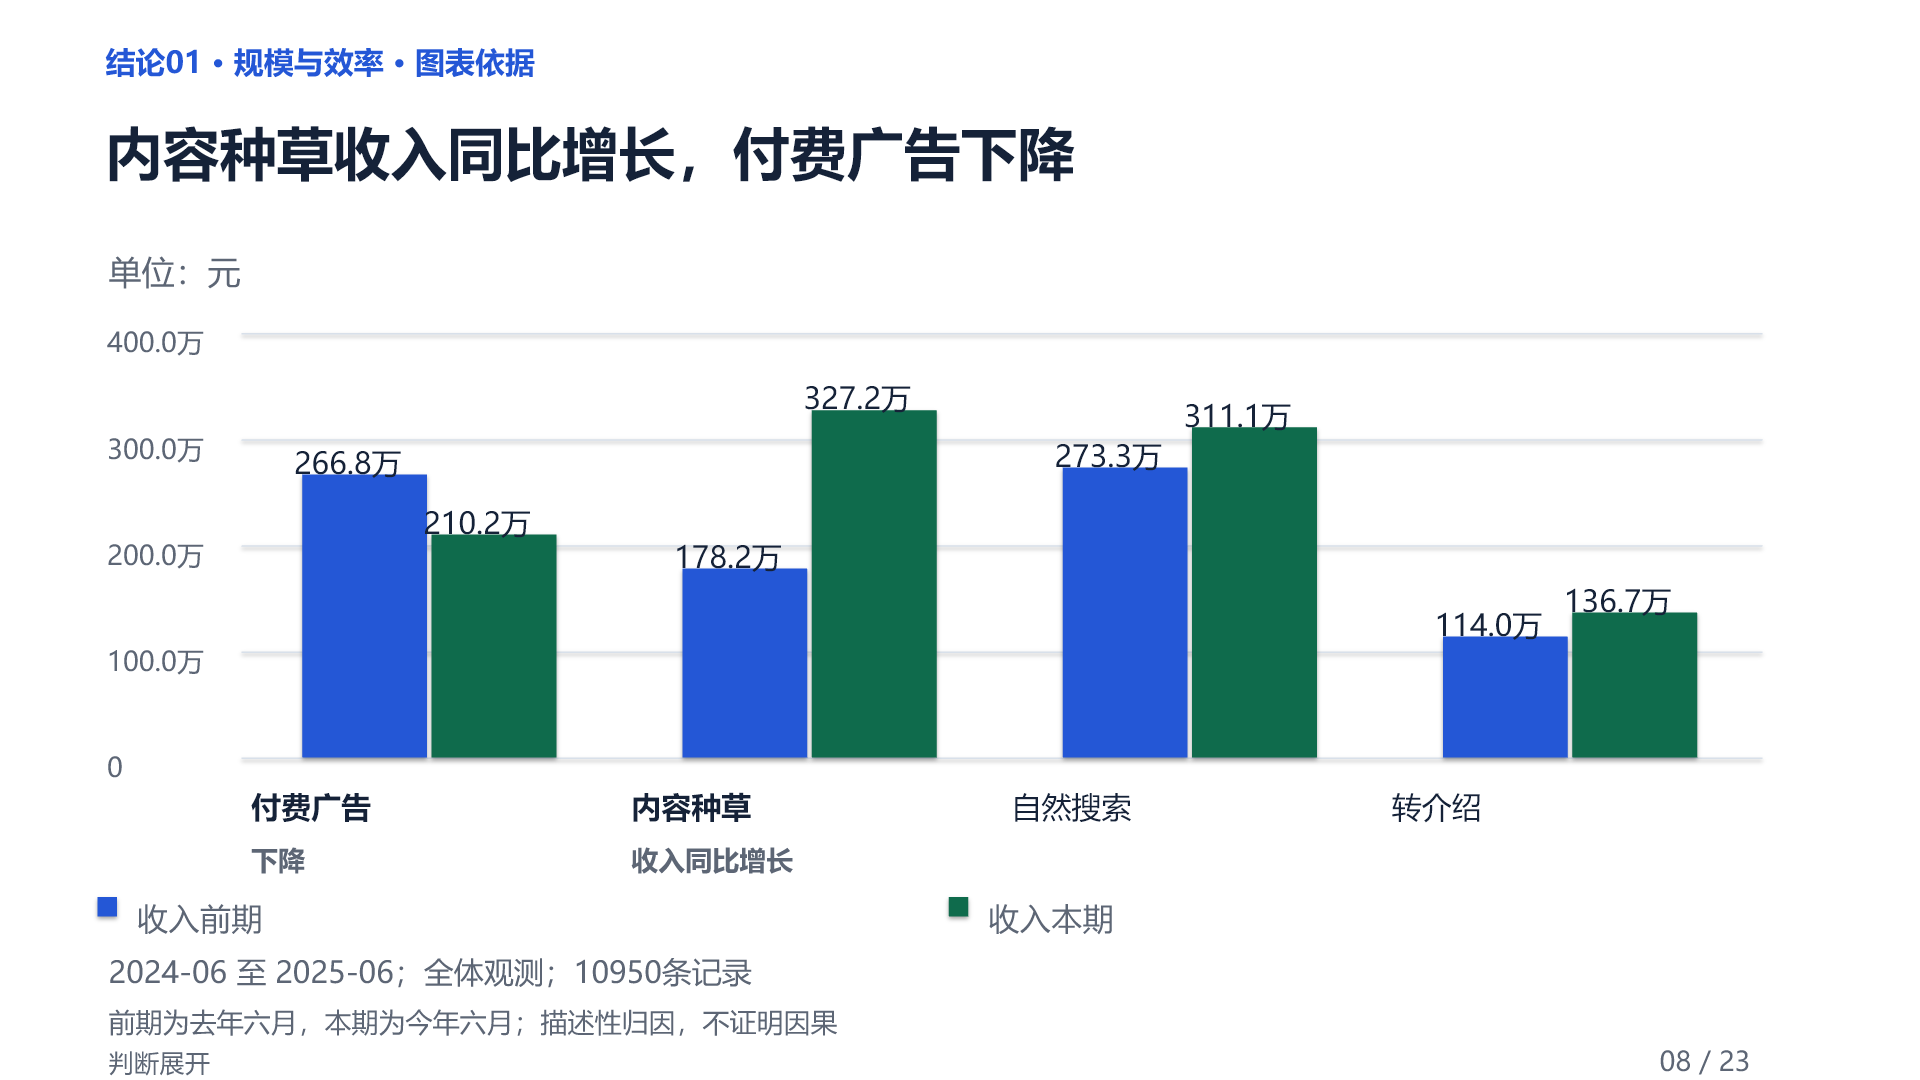
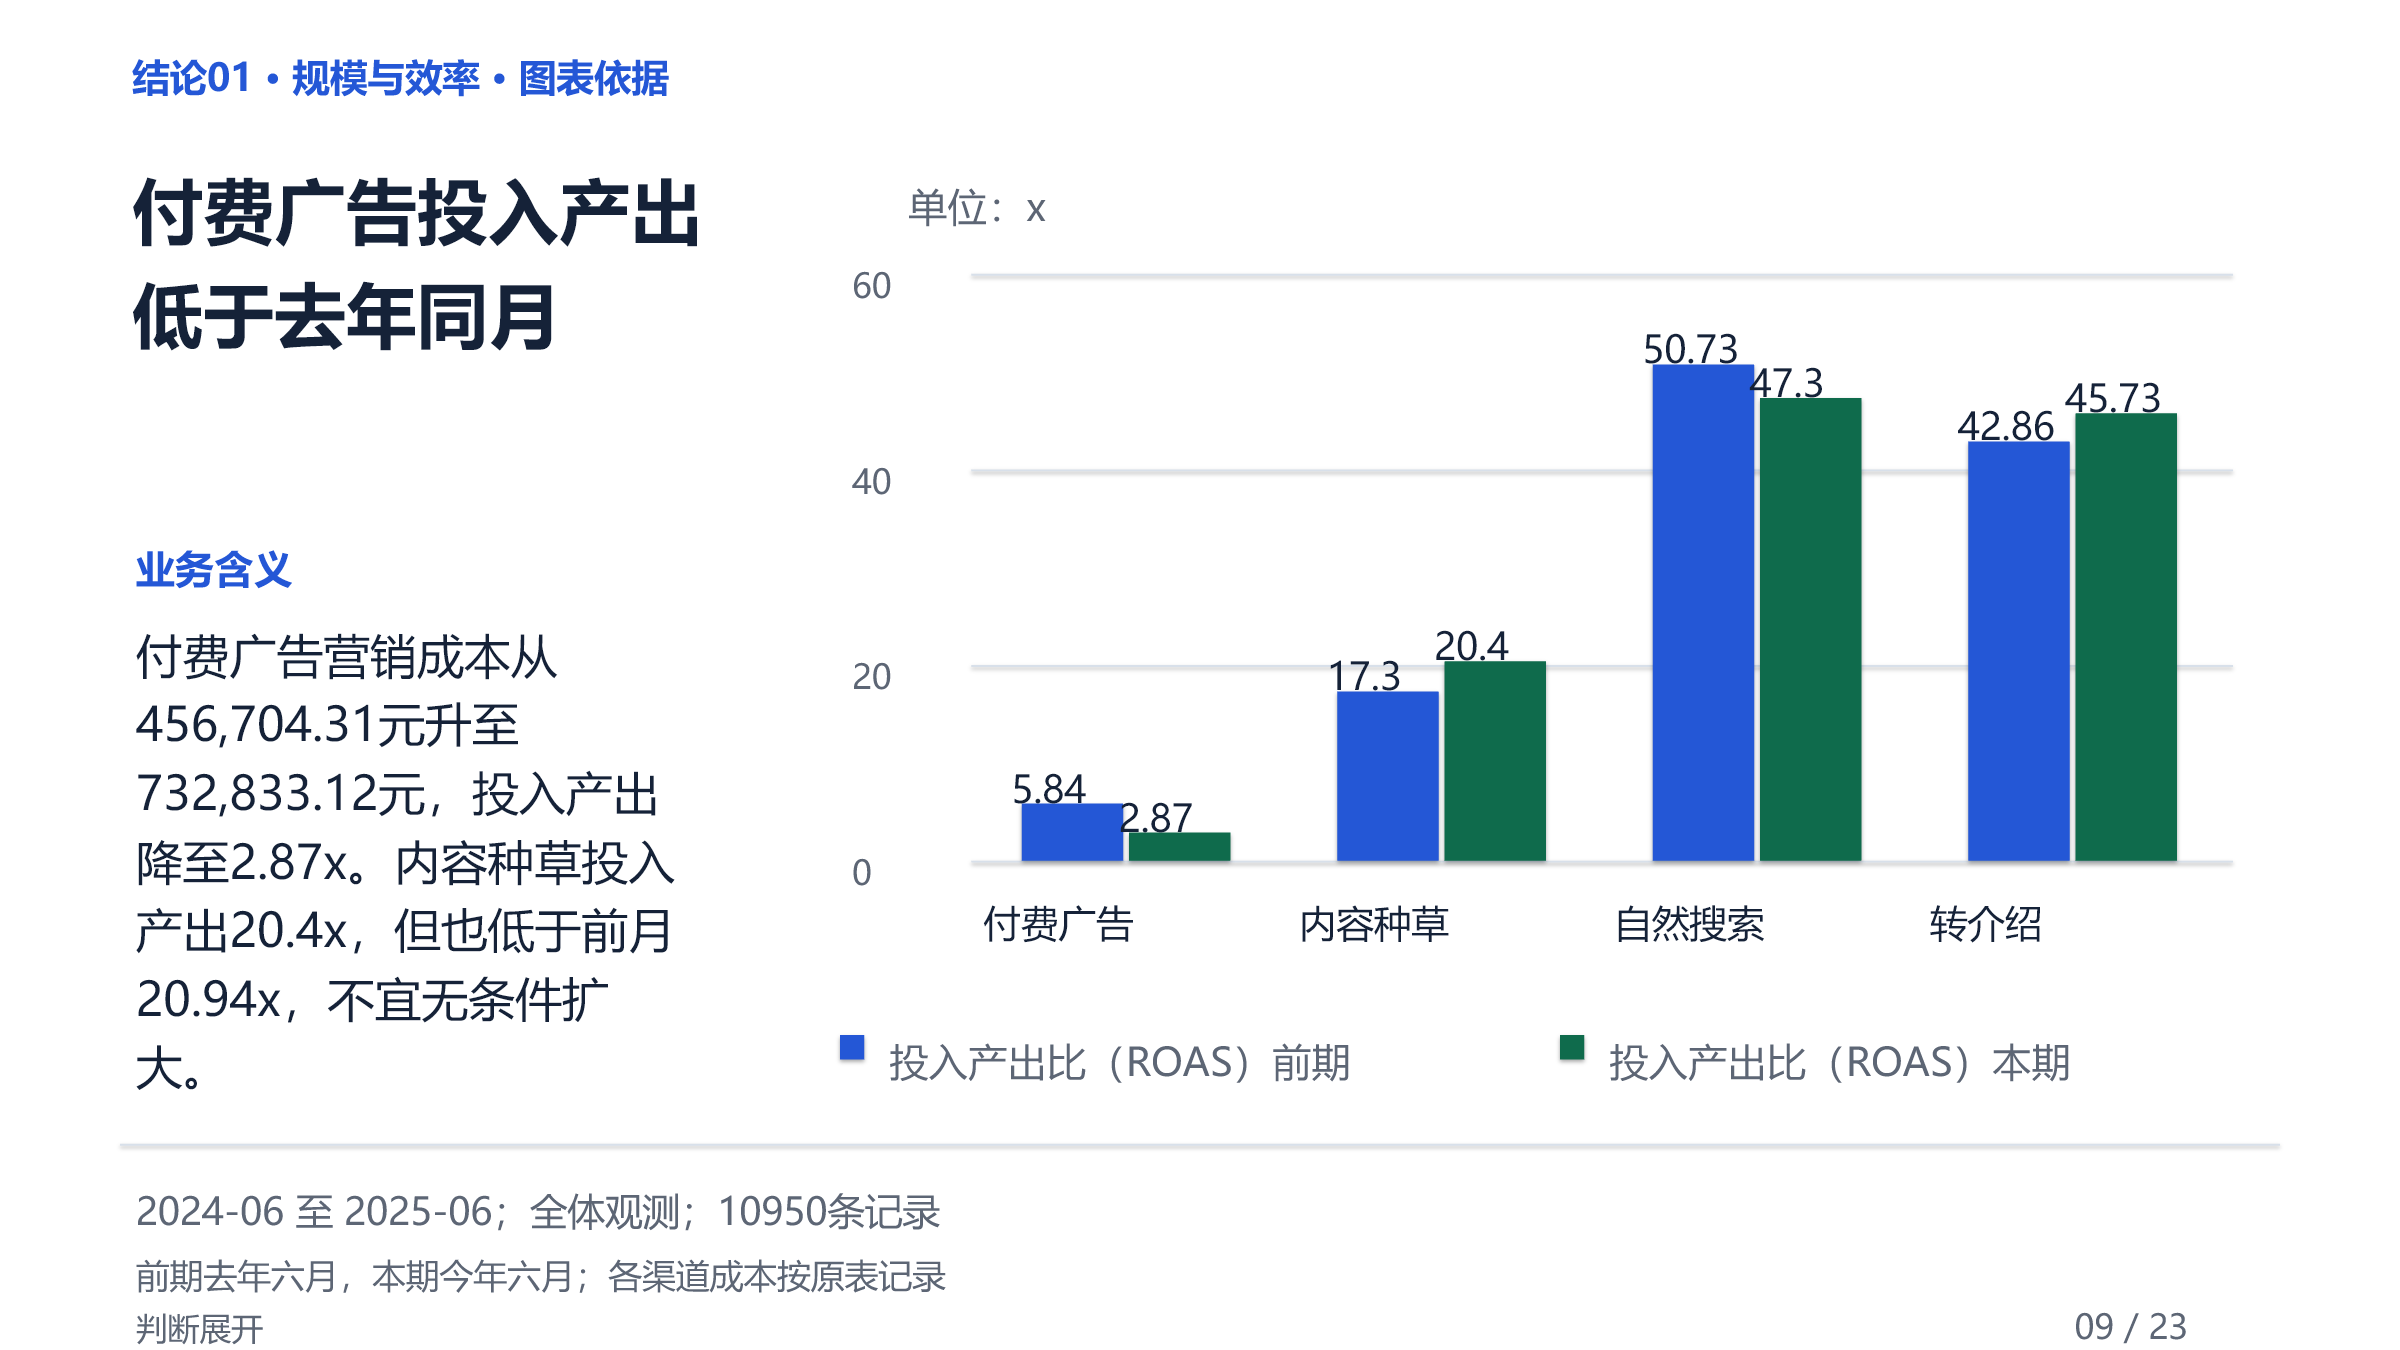
docs: strengthen refined chart comparison

diff --git a/docs/index.html b/docs/index.html
@@ -22,7 +22,7 @@
 <body>
   <nav class="site-nav" aria-label="案例导航"><div class="nav-inner"><a class="brand" href="#top" aria-label="返回页面顶部"><span class="brand-mark" aria-hidden="true"><i></i><i></i><i></i></span><span>sheet-to-report</span></a><div class="nav-links"><a href="#outputs">三类产物</a><a href="#comparison">PPT 对照</a><a href="#case">案例说明</a><a href="https://github.com/majichuan/sheet-to-report">GitHub</a></div></div></nav>
   <main id="top">
-    <section class="hero" aria-labelledby="hero-title"><div class="hero-copy"><h1 id="hero-title">从一张 Excel 到完整经营简报</h1><p><strong>同一份分析模型</strong>驱动三种产物：可追溯的 HTML、可编辑的标准 PPT，以及保留原意与数字的 SlideViber 美化版。</p><div class="hero-actions"><a class="button primary" href="report.html">查看完整 HTML</a><a class="button" href="#comparison">对比两版 PPT</a></div><p class="hero-meta">完全合成数据 · 100,000 行 · 18 个月 · 两版 PPT 各 23 页</p></div><div class="hero-visual" aria-label="标准版与美化版PPT真实页面叠放展示"><div class="slide-frame hero-standard"><img src="assets/slides/standard-chart.png" alt="标准版PPT渠道收入对比图表页"></div><div class="slide-frame hero-refined"><img src="assets/slides/slideviber-chart.png" alt="SlideViber美化版PPT渠道收入对比图表页"></div><span class="visual-note">同一结论 · 同一组数据</span></div></section>
+    <section class="hero" aria-labelledby="hero-title"><div class="hero-copy"><h1 id="hero-title">从一张 Excel 到完整经营简报</h1><p><strong>同一份分析模型</strong>驱动三种产物：可追溯的 HTML、可编辑的标准 PPT，以及保留原意与数字的 SlideViber 美化版。</p><div class="hero-actions"><a class="button primary" href="report.html">查看完整 HTML</a><a class="button" href="#comparison">对比两版 PPT</a></div><p class="hero-meta">完全合成数据 · 100,000 行 · 18 个月 · 两版 PPT 各 23 页</p></div><div class="hero-visual" aria-label="标准版与美化版PPT真实页面叠放展示"><div class="slide-frame hero-standard"><img src="assets/slides/standard-chart.png" alt="标准版PPT付费广告投入产出图表页"></div><div class="slide-frame hero-refined"><img src="assets/slides/slideviber-chart.png" alt="SlideViber美化版PPT采用左侧业务解释和右侧图表的投入产出分析页"></div><span class="visual-note">同一结论 · 同一组数据</span></div></section>
     <section class="section" id="outputs" aria-labelledby="outputs-title"><h2 class="section-title" id="outputs-title">一份分析，三种交付</h2><p class="section-lead">先把判断、证据与行动关系分析清楚，再根据阅读和汇报场景改变呈现方式。视觉变化不能改数字，也不能漏掉会影响决策的信息。</p><div class="outputs">
       <article class="output-row"><span class="output-index">01</span><h3 class="output-name">HTML 分析简报<small>Offline report</small></h3><p>通过固定阅读主线、图表依据和口径说明，适合个人深读、业务复盘与会前同步。</p><a class="output-link" href="report.html">在线查看</a></article>
       <article class="output-row"><span class="output-index">02</span><h3 class="output-name">标准汇报 PPT<small>Editable deck</small></h3><p>保留可编辑文字和原生图表，把分析组织成可讲述的23页汇报路径。</p><a class="output-link" href="downloads/sheet-to-report-demo-standard.pptx" download>下载完整PPT</a></article>
@@ -31,7 +31,7 @@
     <div class="compare-wrap"><section class="section" id="comparison" aria-labelledby="comparison-title"><h2 class="section-title" id="comparison-title">同一内容，两种演示方式</h2><p class="section-lead">下面四组页面来自同一个23页案例。左侧标准版优先保证编辑与复用，右侧美化版加强构图、层级和现场阅读节奏。</p><nav class="pair-nav" aria-label="PPT页面对照导航"><a href="#pair-cover">封面</a><a href="#pair-summary">核心判断</a><a href="#pair-chart">图表依据</a><a href="#pair-action">行动方案</a></nav>
       <article class="comparison" id="pair-cover"><div class="comparison-head"><h3>封面：先交代范围与汇报目标</h3><p>第 01 / 23 页</p></div><div class="slide-pair"><figure class="slide-view"><div class="slide-frame"><img src="assets/slides/standard-cover.png" alt="标准版PPT封面，深蓝底色展示全渠道零售经营复盘标题" loading="lazy"></div><figcaption><span class="edition">标准版</span><span>简洁、直接、便于继续编辑</span></figcaption></figure><figure class="slide-view"><div class="slide-frame"><img src="assets/slides/slideviber-cover.png" alt="SlideViber美化版PPT封面，以更强文字层级展示分析期间和汇报目标" loading="lazy"></div><figcaption><span class="edition refined">SlideViber 美化版</span><span>重组层级与视觉焦点</span></figcaption></figure></div></article>
       <article class="comparison" id="pair-summary"><div class="comparison-head"><h3>核心判断：让听众先看懂三条主线</h3><p>第 02 / 23 页</p></div><div class="slide-pair"><figure class="slide-view"><div class="slide-frame"><img src="assets/slides/standard-summary.png" alt="标准版PPT核心判断页，纵向列出三条经营结论" loading="lazy"></div><figcaption><span class="edition">标准版</span><span>纵向阅读，信息密度更克制</span></figcaption></figure><figure class="slide-view"><div class="slide-frame"><img src="assets/slides/slideviber-summary.png" alt="SlideViber美化版PPT核心判断页，以三列卡片呈现三条经营结论" loading="lazy"></div><figcaption><span class="edition refined">SlideViber 美化版</span><span>并列比较，主线更醒目</span></figcaption></figure></div></article>
-      <article class="comparison" id="pair-chart"><div class="comparison-head"><h3>图表依据：内容种草增长，付费广告下降</h3><p>第 08 / 23 页 · 同一数据与结论</p></div><div class="slide-pair"><figure class="slide-view"><div class="slide-frame"><img src="assets/slides/standard-chart.png" alt="标准版PPT渠道收入柱状图，比较付费广告、内容种草、自然搜索和转介绍" loading="lazy"></div><figcaption><span class="edition">标准版</span><span>原生图表，便于替换数据</span></figcaption></figure><figure class="slide-view"><div class="slide-frame"><img src="assets/slides/slideviber-chart.png" alt="SlideViber美化版PPT渠道收入柱状图，在图表中直接标出渠道变化" loading="lazy"></div><figcaption><span class="edition refined">SlideViber 美化版</span><span>放大结论，优化标注与阅读路径</span></figcaption></figure></div></article>
+      <article class="comparison" id="pair-chart"><div class="comparison-head"><h3>图表依据：付费广告投入产出降至 2.87x</h3><p>第 09 / 23 页 · 同一数据与结论</p></div><div class="slide-pair"><figure class="slide-view"><div class="slide-frame"><img src="assets/slides/standard-chart.png" alt="标准版PPT投入产出柱状图，比较付费广告、内容种草、自然搜索和转介绍" loading="lazy"></div><figcaption><span class="edition">标准版</span><span>整页原生图表，便于替换数据</span></figcaption></figure><figure class="slide-view"><div class="slide-frame"><img src="assets/slides/slideviber-chart.png" alt="SlideViber美化版PPT左侧解释付费广告成本和投入产出变化，右侧保留同一组渠道柱状图" loading="lazy"></div><figcaption><span class="edition refined">SlideViber 美化版</span><span>左侧解释业务含义，右侧保留图表证据</span></figcaption></figure></div></article>
       <article class="comparison" id="pair-action"><div class="comparison-head"><h3>行动方案：从依据走到可验证的下一步</h3><p>第 14 / 23 页</p></div><div class="slide-pair"><figure class="slide-view"><div class="slide-frame"><img src="assets/slides/standard-action.png" alt="标准版PPT行动方案页，说明行动对象、依据和执行步骤" loading="lazy"></div><figcaption><span class="edition">标准版</span><span>结构规整，便于业务修改</span></figcaption></figure><figure class="slide-view"><div class="slide-frame"><img src="assets/slides/slideviber-action.png" alt="SlideViber美化版PPT行动方案页，以分阶段模块突出执行顺序" loading="lazy"></div><figcaption><span class="edition refined">SlideViber 美化版</span><span>把执行顺序转成视觉结构</span></figcaption></figure></div></article>
     </section></div>
     <div class="case-band" id="case"><section class="section" aria-labelledby="case-title"><h2 class="section-title" id="case-title">案例只证明产品能力</h2><p class="section-lead">数据、背景和结论均为自主合成内容，不代表任何真实企业表现。Skill不会绑定本案例，也不会把示例结论套到用户数据上。</p><div class="facts"><div class="fact"><strong>100,000 行</strong><span>单张结构化全渠道经营表</span></div><div class="fact"><strong>18 个月</strong><span>2024-01 至 2025-06</span></div><div class="fact"><strong>11 个字段</strong><span>渠道、区域、品类、用户层级与经营指标</span></div><div class="fact"><strong>3 类产物</strong><span>HTML、标准PPT、可选美化PPT</span></div></div></section></div>

diff --git a/README.md b/README.md
@@ -20,7 +20,7 @@ The two images below show the same conclusion and numbers. The standard deck kee
 
 | Editable standard deck | Optional SlideViber refinement |
 | --- | --- |
-| ![Standard deck: paid advertising return fell from the prior-year period](assets/screenshots/standard-ppt-chart.png) | ![SlideViber-refined deck: the same conclusion in a stronger editorial composition](assets/screenshots/slideviber-ppt-chart.png) |
+| ![Standard deck: a full-width editable chart shows that paid advertising return fell from the prior-year period](assets/screenshots/standard-ppt-chart.png) | ![SlideViber-refined deck: the business interpretation sits beside the same chart evidence](assets/screenshots/slideviber-ppt-chart.png) |
 
 The online showcase compares four matching page pairs and provides both complete 23-slide demo decks: [download the editable standard PPTX](https://majichuan.github.io/sheet-to-report/downloads/sheet-to-report-demo-standard.pptx) or [download the SlideViber-refined PPTX](https://majichuan.github.io/sheet-to-report/downloads/sheet-to-report-demo-slideviber.pptx).
 

diff --git a/README.zh-CN.md b/README.zh-CN.md
@@ -18,7 +18,7 @@
 
 | 可编辑标准版 | 可选 SlideViber 美化版 |
 | --- | --- |
-| ![标准版：付费广告投入产出低于去年同期](assets/screenshots/standard-ppt-chart.png) | ![SlideViber 美化版：同一结论采用更有层次的图文构图](assets/screenshots/slideviber-ppt-chart.png) |
+| ![标准版：整页原生图表显示付费广告投入产出低于去年同期](assets/screenshots/standard-ppt-chart.png) | ![SlideViber 美化版：左侧解释业务含义，右侧保留同一组图表证据](assets/screenshots/slideviber-ppt-chart.png) |
 
 在线案例增加了四组同页对照，并提供两套完整23页样例：[下载可编辑标准版 PPTX](https://majichuan.github.io/sheet-to-report/downloads/sheet-to-report-demo-standard.pptx)，或[下载 SlideViber 美化版 PPTX](https://majichuan.github.io/sheet-to-report/downloads/sheet-to-report-demo-slideviber.pptx)。
 
